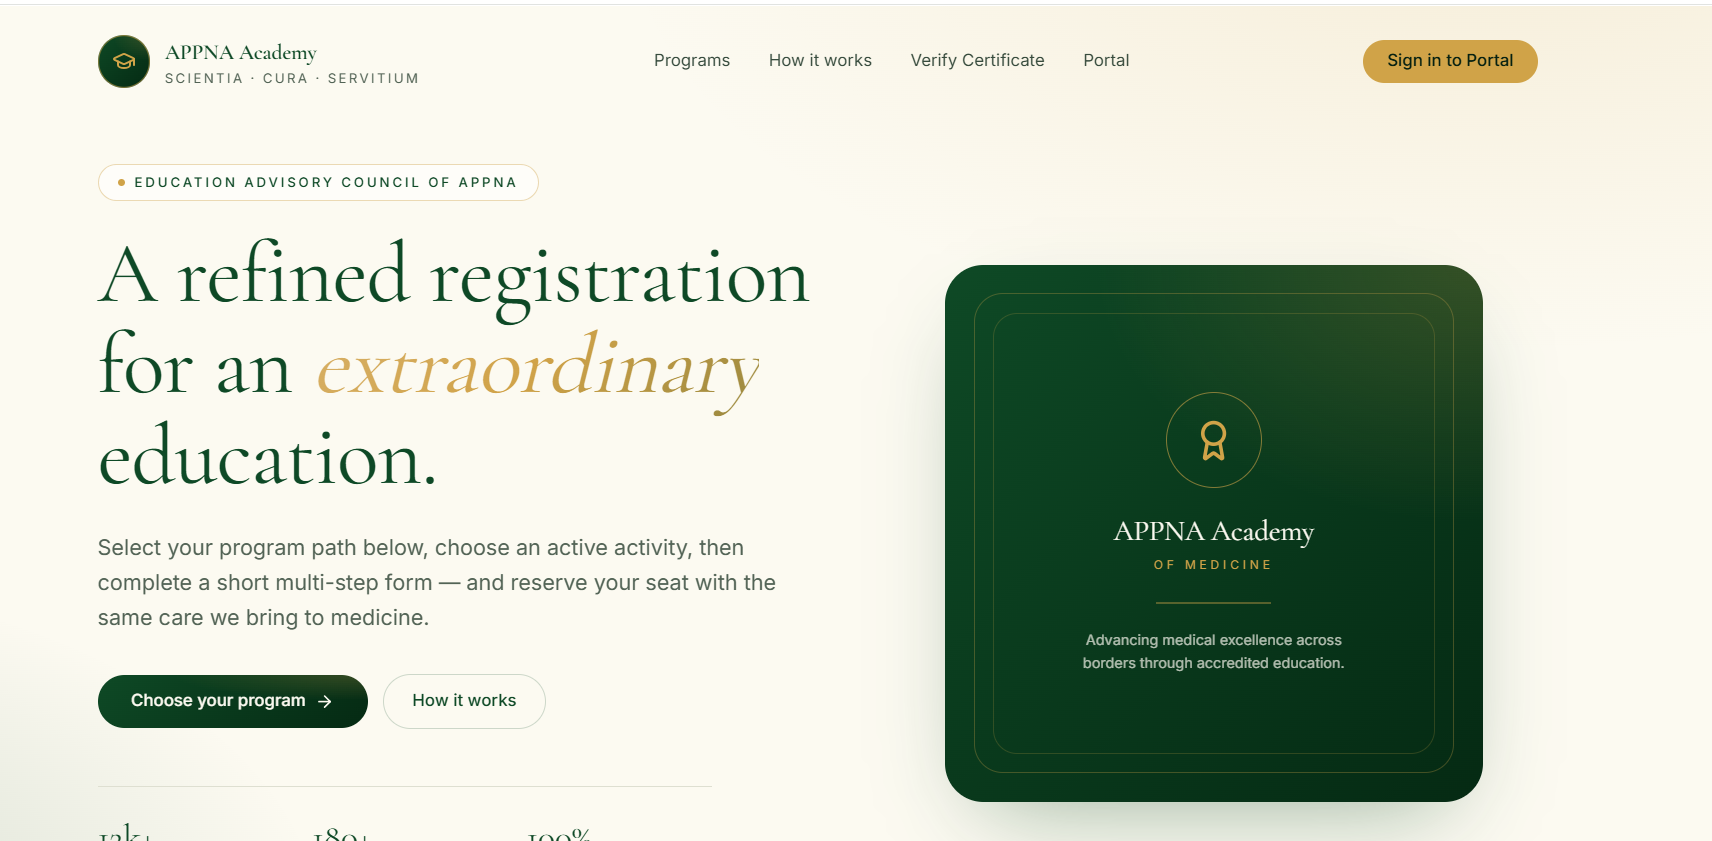
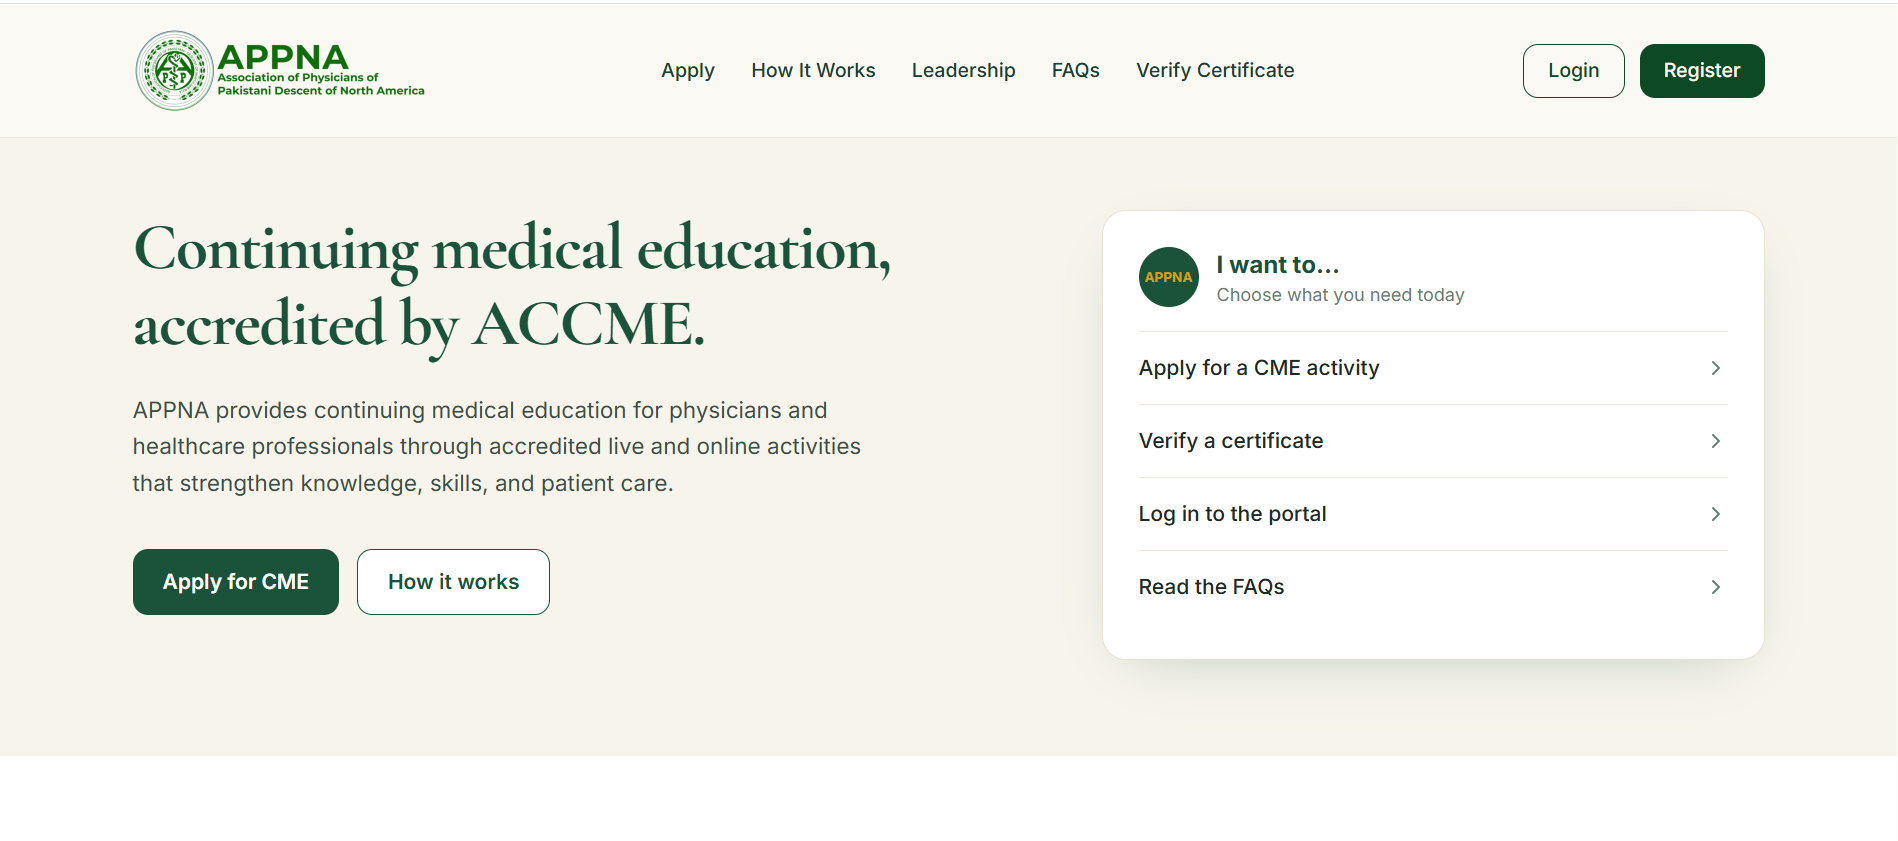
add appna cme project

diff --git a/src/data.js b/src/data.js
@@ -29,9 +29,9 @@ export const projectData = [
       "TANSTACK QUERY",
       "AWS S3",
     ],
-    title: "APPNA ACADEMY",
+    title: "APPNA Academy CME Portal",
     description:
-      "APPNA Academy – A comprehensive CME and Non-CME academic management platform built to streamline activity creation, approval workflows, speaker management, registrations, attendance, and certification. Developed with a role-based architecture supporting multiple user roles, secure authentication, document uploads, and scalable backend APIs, gaining hands-on experience in building complex real-world workflows and production-ready systems.",
+    "APPNA Academy CME Portal — A continuing medical education platform supporting CME and Non-CME activity management, approval workflows, speaker management, registrations, attendance, and certification. Contributed to application development, frontend and backend integration, workflow implementation, testing, troubleshooting, and deployment-related tasks. Worked with React, TypeScript, NestJS, Prisma, PostgreSQL, and AWS services as part of the development team.",
     url: "https://dev.d375gpetoc3z9p.amplifyapp.com/",
     code: "https://dev.d375gpetoc3z9p.amplifyapp.com/",
   },

diff --git a/index.html b/index.html
@@ -10,7 +10,7 @@
     <meta name="author" content="Muhammad Safian" />
     <meta name="robots" content="index, follow" />
     <link rel="canonical" href="https://safian.vercel.app/" />
-    <link rel="icon" type="image/svg+xml" href="/vite.svg" />
+    <link rel="icon" type="image/svg+xml" href="/favicon.png" />
     <meta property="og:type" content="website" />
     <meta property="og:title" content="Muhammad Safian | MERN Stack Developer | React Developer" />
     <meta property="og:description" content="Explore the portfolio of Muhammad Safian, a full stack MERN developer from Pakistan building performant React applications and scalable backend solutions." />
